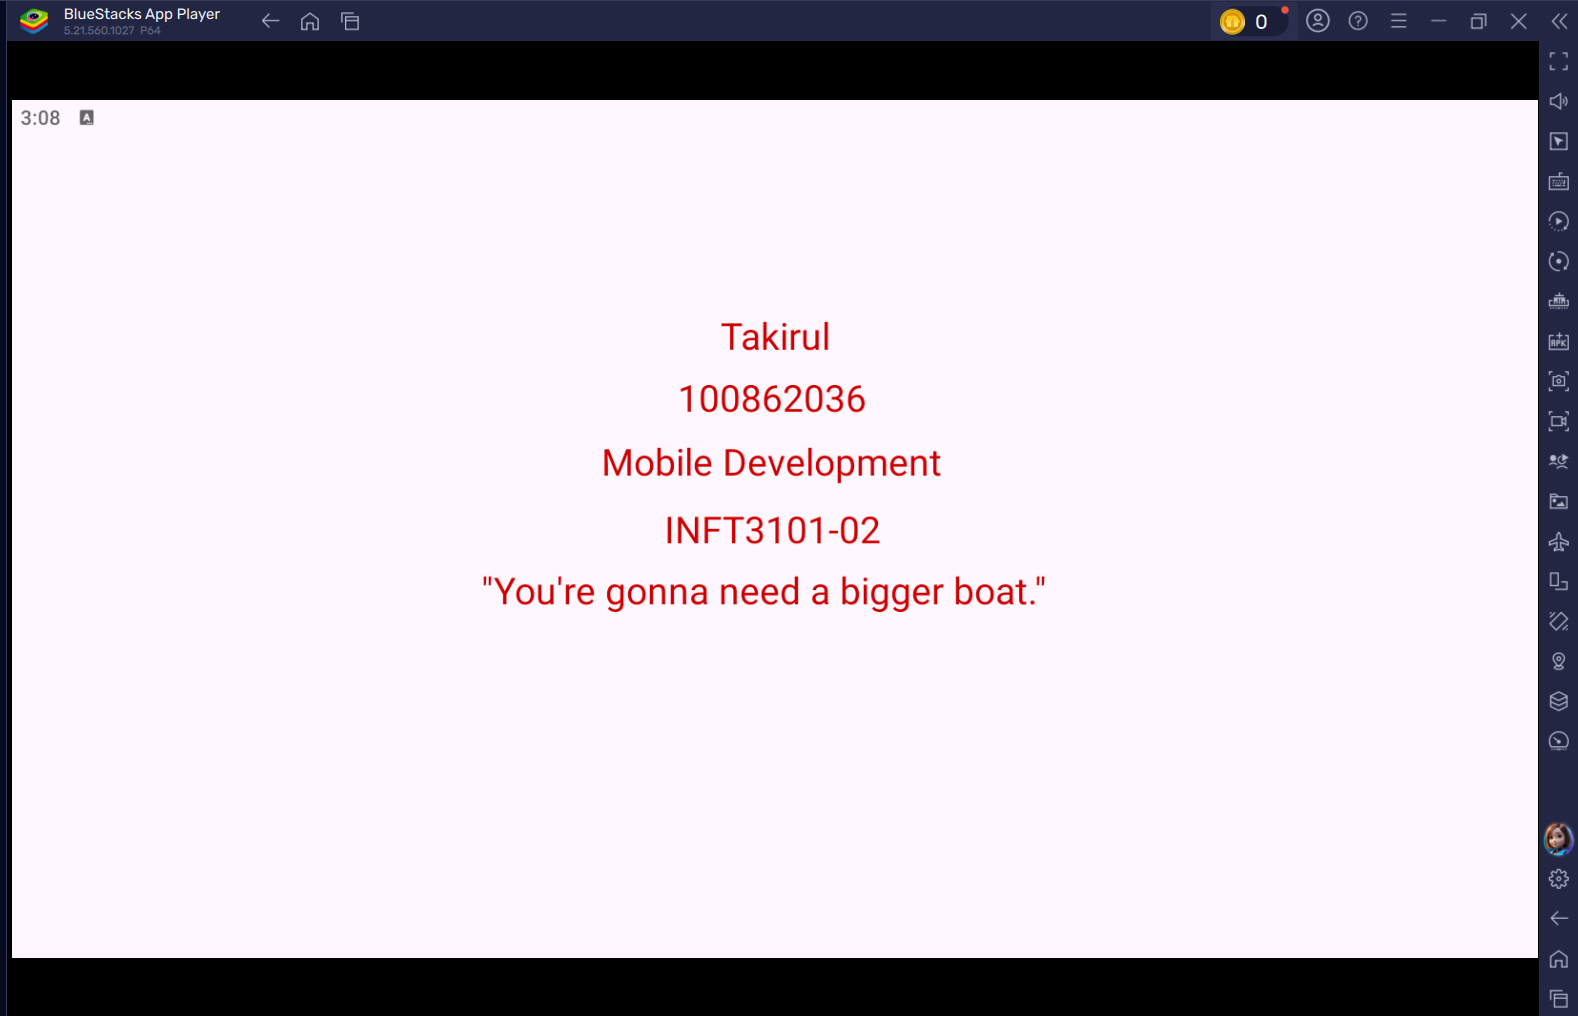
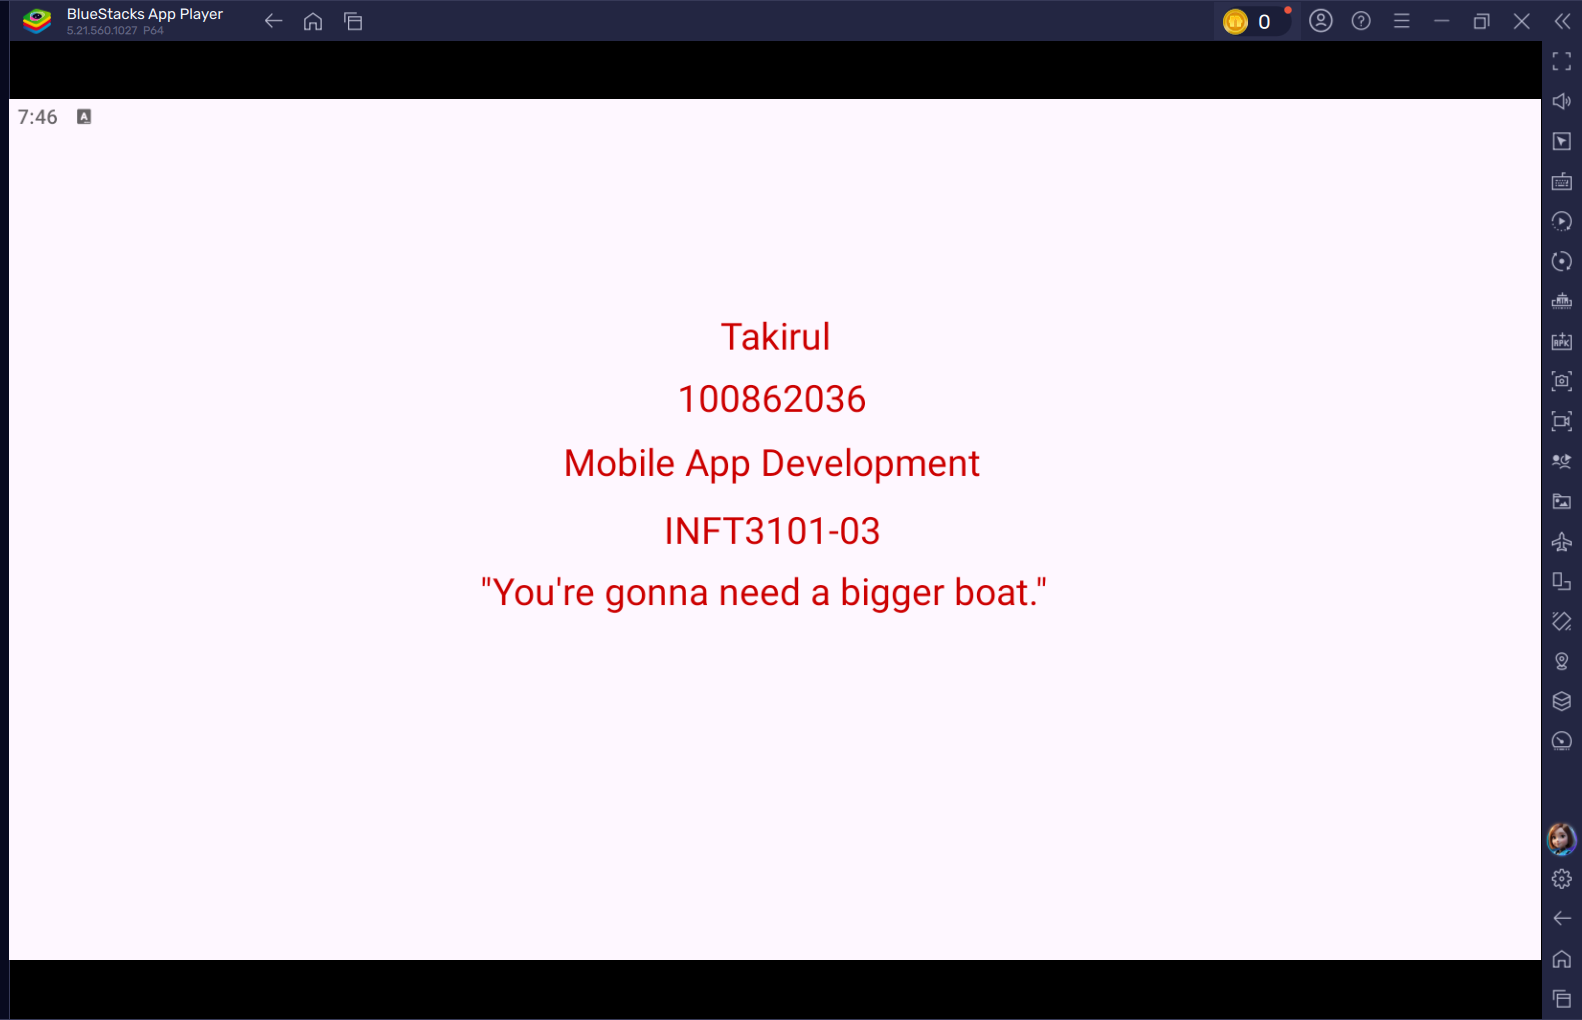
First Commit

diff --git a/portfolio.html b/portfolio.html
@@ -76,7 +76,7 @@
                     <a href="#lab2Details" data-bs-toggle="collapse" role="button" aria-expanded="false" aria-controls="lab2Details" class="btn btn-primary">View More</a>
                     <div class="collapse collapse-content" id="lab2Details">
                         <p class="card-text">
-                            In Lab 2, "XML and Related Technologies," I gained an in-depth understanding of how XML is structured and used to store and transport data. I explored the creation and validation of XML documents using Document Type Definitions (DTD), learning to define elements and attributes to ensure data consistency and integrity. By working with XML, DTD code, and validation processes, I developed a solid grasp of how XML plays a crucial role in data representation, particularly in mobile development. This lab highlighted the importance of adhering to standards and best practices to facilitate accurate data exchange and integration across different systems.
+                            In Lab 2, "XML and Related Technologies," I gained an in-depth understanding of how XML is structured and used to store and transport data. I explored the creation and validation of XML documents using Document Type Definitions (DTD), learning to define elements and attributes to ensure data consistency and integrity. By working with XML, DTD code, and validation processes, I developed a solid grasp of how XML plays a crucial role in data representation, particularly in mobile app development. This lab highlighted the importance of adhering to standards and best practices to facilitate accurate data exchange and integration across different systems.
                         </p>
                         <p>XML File Screenshots</p>
                         <img src="images/lab2screenshot1.png" alt="Lab 2 Screenshot 1" class="img-fluid my-2">
@@ -112,7 +112,7 @@
                     <a href="#lab4Details" data-bs-toggle="collapse" role="button" aria-expanded="false" aria-controls="lab4Details" class="btn btn-primary">View More</a>
                     <div class="collapse collapse-content" id="lab4Details">
                         <p class="card-text">
-                            In Lab 4, "Android Studio: App Development - Classes," I explored the concept of classes in Dart. I learned how to define classes and their properties, implement constructors, and utilize inheritance and method overriding. Through practical examples, I understood how classes model real-world objects, promote code reuse, and enhance modularity. The lab also highlighted the differences between Dart's classes and those in other programming languages, emphasizing the advantages of using classes for structured and maintainable code in mobile development.
+                            In Lab 4, "Android Studio: App Development - Classes," I explored the concept of classes in Dart. I learned how to define classes and their properties, implement constructors, and utilize inheritance and method overriding. Through practical examples, I understood how classes model real-world objects, promote code reuse, and enhance modularity. The lab also highlighted the differences between Dart's classes and those in other programming languages, emphasizing the advantages of using classes for structured and maintainable code in mobile app development.
                         </p>
                         <p>App Screenshots</p>
                         <img src="images/lab4screenshot1.png" alt="Lab 4 Screenshot 1" class="img-fluid my-2">
@@ -216,8 +216,9 @@
                     <a href="#projectDetails" data-bs-toggle="collapse" role="button" aria-expanded="false" aria-controls="projectDetails" class="btn btn-primary">View More</a>
                     <div class="collapse collapse-content" id="projectDetails">
                         <p class="card-text">
-                            As the UI/UX Designer for the AmazStar Puzzle project, I deepened my understanding of crafting user-centred interfaces that are both visually appealing and intuitive. This project sharpened my skills in creating responsive designs that adapt seamlessly across various devices. Collaborating with my team, I learned how to effectively integrate front-end and back-end components, ensuring a cohesive user experience. The experience of deploying the app as a functional .apk file for Android further enhanced my technical prowess and appreciation for mobile development. Overall, this project has been instrumental in refining my skills in design, teamwork, and project management, preparing me for future challenges in the tech industry.
+                            As the UI/UX Designer for the AmazStar Puzzle project, I deepened my understanding of crafting user-centred interfaces that are both visually appealing and intuitive. This project sharpened my skills in creating responsive designs that adapt seamlessly across various devices. Collaborating with my team, I learned how to effectively integrate front-end and back-end components, ensuring a cohesive user experience. The experience of deploying the app as a functional .apk file for Android further enhanced my technical prowess and appreciation for mobile app development. Overall, this project has been instrumental in refining my skills in design, teamwork, and project management, preparing me for future challenges in the tech industry.
                         </p>
+                        <p>App Screenshots</p>
                         <img src="images/projectscreenshot1.png" alt="Project Screenshot 1" class="img-fluid my-2">
                         <img src="images/projectscreenshot2.png" alt="Project Screenshot 2" class="img-fluid my-2">
                     </div>
